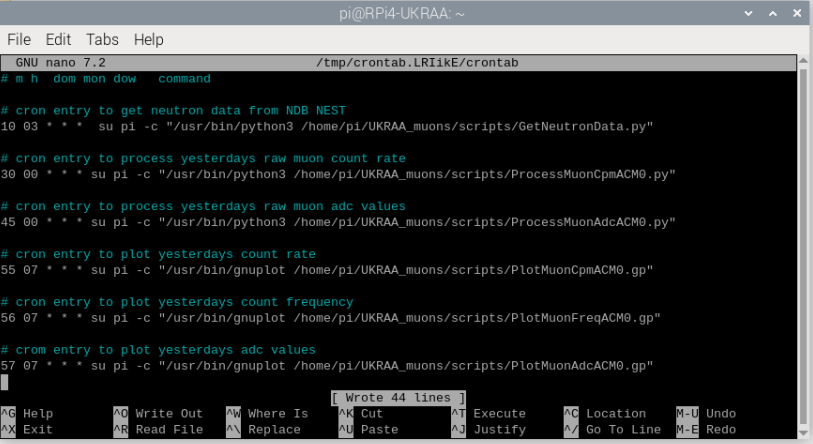
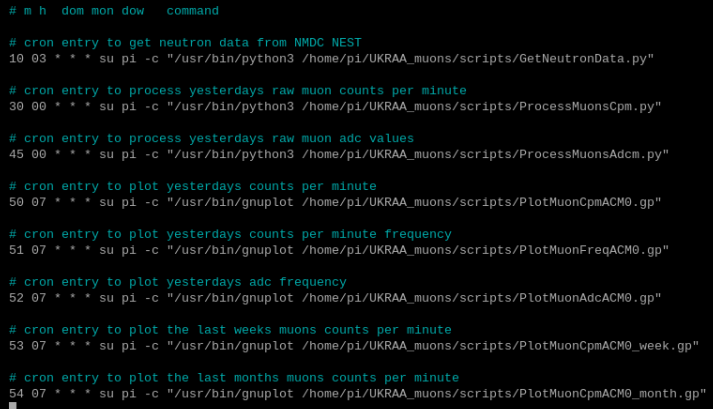
Changed first cron entry

diff --git a/README.md b/README.md
@@ -689,23 +689,29 @@ sudo crontab -e
 ```
 # m h  dom mon dow   command
 
-# cron entry to get neutron data from NDB NEST
-10 03 * * *  su pi -c **/usr/bin/python3 /home/pi/UKRAA_muons/scripts/GetNeutronData.py**
+# cron entry to get neutron data from NMDC NEST
+10 03 * * * su pi -c "/usr/bin/python3 /home/pi/UKRAA_muons/scripts/GetNeutronData.py"
 
-# cron entry to process yesterdays raw muon count rate
-30 00 * * * su pi -c **/usr/bin/python3 /home/pi/UKRAA_muons/scripts/ProcessMuonCpmACM0.py**
+# cron entry to process yesterdays raw muon counts per minute 
+30 00 * * * su pi -c "/usr/bin/python3 /home/pi/UKRAA_muons/scripts/ProcessMuonsCpm.py"
 
-# cron entry to process yesterdays raw muon adc values
-45 00 * * * su pi -c **/usr/bin/python3 /home/pi/UKRAA_muons/scripts/ProcessMuonAdcACM0.py**
+# cron entry to process yesterdays raw muon adc values 
+45 00 * * * su pi -c "/usr/bin/python3 /home/pi/UKRAA_muons/scripts/ProcessMuonsAdcm.py"
 
-# cron entry to plot yesterdays count rate
-55 07 * * * su pi -c **/usr/bin/gnuplot /home/pi/UKRAA_muons/scripts/PlotMuonCpmACM0.gp**
+# cron entry to plot yesterdays counts per minute 
+50 07 * * * su pi -c "/usr/bin/gnuplot /home/pi/UKRAA_muons/scripts/PlotMuonCpmACM0.gp"
 
-# cron entry to plot yesterdays count frequency
-56 07 * * * su pi -c **/usr/bin/gnuplot /home/pi/UKRAA_muons/scripts/PlotMuonFreqACM0.gp**
+# cron entry to plot yesterdays counts per minute frequency 
+51 07 * * * su pi -c "/usr/bin/gnuplot /home/pi/UKRAA_muons/scripts/PlotMuonFreqACM0.gp"
 
-# crom entry to plot yesterdays adc values
-57 07 * * * su pi -c **/usr/bin/gnuplot /home/pi/UKRAA_muons/scripts/PlotMuonAdcACM0.gp**
+# cron entry to plot yesterdays adc frequency 
+52 07 * * * su pi -c "/usr/bin/gnuplot /home/pi/UKRAA_muons/scripts/PlotMuonAdcACM0.gp"
+
+# cron entry to plot the last weeks muons counts per minute 
+53 07 * * * su pi -c "/usr/bin/gnuplot /home/pi/UKRAA_muons/scripts/PlotMuonCpmACM0_week.gp"
+
+# cron entry to plot the last months muons counts per minute
+54 07 * * * su pi -c "/usr/bin/gnuplot /home/pi/UKRAA_muons/scripts/PlotMuonCpmACM0_month.gp"
 ```
 
 ![img_51](images/RPi_imager_51.PNG)
